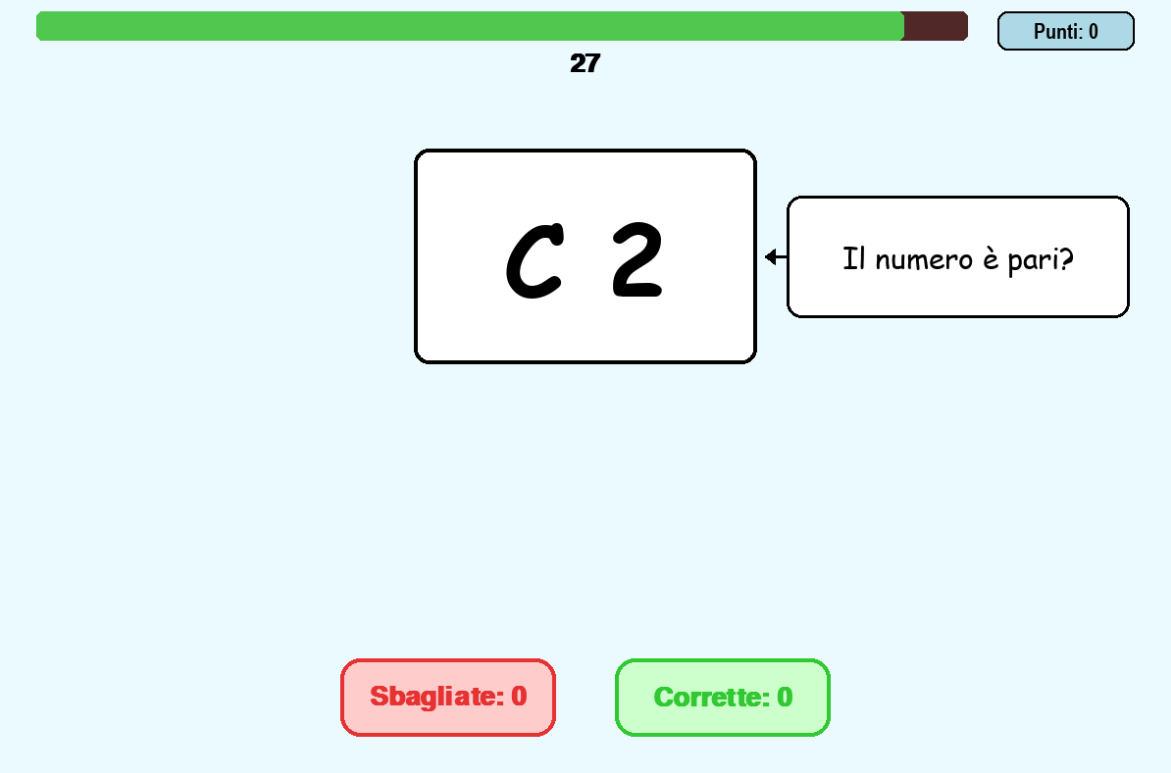
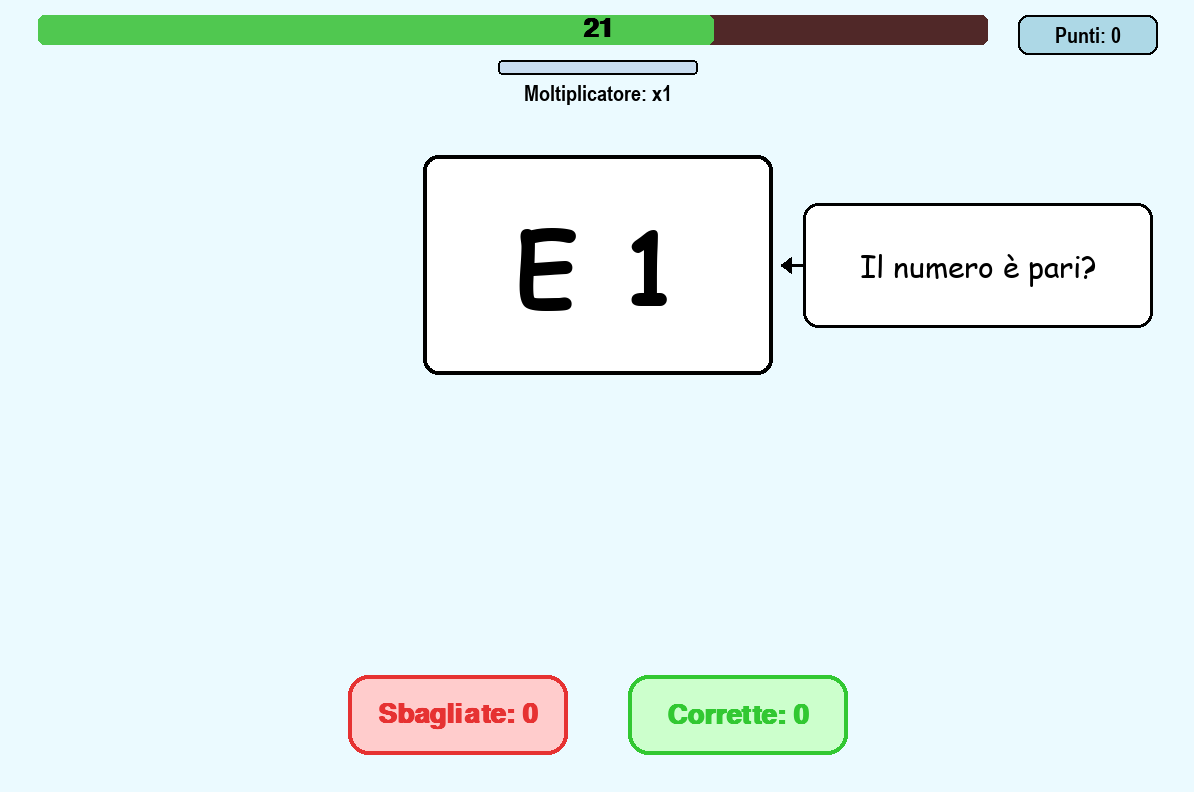
upt /docs/img/UI.png and README.md

diff --git a/README.md b/README.md
@@ -9,7 +9,17 @@ Classe 4A Informatica — a.s. 2025-26.
 
 ## Cos'è Brain Shift
 
-Brain Shift è un gioco di velocità e memoria. Il gioco consiste in un'apparizione di una card al centro dello schermo con all'interno una lettera e un numero. In base al posizionamento della carta dovrai rispondere alla domanda: "E' Pari?" o "E' una vocale?", rispondendo sì o no.
+Brain Shift è un gioco di velocità e memoria. Il gioco consiste in un'apparizione di una card al centro dello schermo con all'interno una lettera e un numero.
+
+In base al posizionamento della carta dovrai rispondere alla domanda: "E' Pari?" o "E' una vocale?", 
+rispondendo sì o no.
+
+Il gioco possiede oltre ad un sistema di punteggio classico, che aggiunge 10 punti ad ogni risposta corretta e -5 ad una sbagliata, 
+è implementato un sistema moltiplicatore.
+
+Con il moltiplicatore, facendo 3 risposte corrette di file aumenta e moltiplica il punteggio. 
+Se sbagli una domanda perdi il moltiplicatore.
+Con il time
 
 ## Come giocare
 
